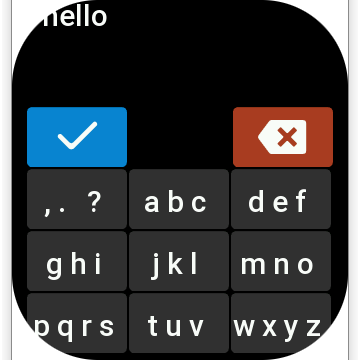
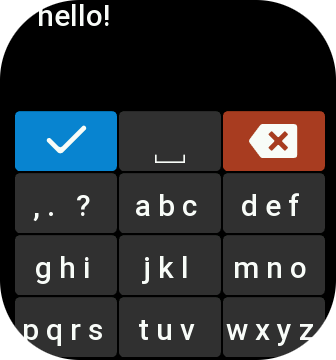
feat: add a space button and buymeacoffee

Changed region(s): [[0.0, 0.0, 1.0, 1.0], [0.4167, 0.8556, 0.5952, 0.9472], [0.119, 0.3667, 0.2381, 0.4278]]

diff --git a/page/keyboard.js b/page/keyboard.js
@@ -85,6 +85,10 @@ getALetter = function (buttonLetters, currentButton, timeToDoubleClick = multiCl
     lastClick = nowClick;
 }
 
+addSpace = function () {
+    text += ' ';
+}
+
 getAEmoji = function (emoji) {
     text += emoji;
 
@@ -171,7 +175,7 @@ createNumberKeyboard = function () {
         w: width - 60,
         h: 120,
         color: 0xffffff,
-        text_size: 36,
+        text_size: 30,
         align_h: hmUI.align.LEFT,
         align_v: hmUI.align.TOP,
         text_style: hmUI.text_style.CHAR_WRAP,
@@ -245,6 +249,30 @@ createKeyboard = function () {
         press_src: 'ic_confirm_52px.png',
         click_func: () => {
             sendMessage()
+        }
+    })
+
+
+
+    const spacebtn = hmUI.createWidget(hmUI.widget.GROUP, {
+        x: buttonWidthMargin + margin,
+        y: height - margin - 4 * buttonHeightMargin,
+        w: buttonWidth,
+        h: buttonHeight,
+    })
+
+    spacebtn.createWidget(hmUI.widget.BUTTON, {
+        x: 0,
+        y: 0,
+        w: buttonWidth,
+        h: buttonHeight,
+        text_size: 40,
+        text: "␣",
+        normal_color: 0x333333,
+        press_color: 0x888888,
+        radius: 5,
+        click_func: () => {
+            addSpace()
         }
     })
 

diff --git a/page/more.js b/page/more.js
@@ -29,6 +29,12 @@ const menuItems = [
         title: false
     },
     {
+        description: gettext('spaceButton'),
+        icon: 'ic_space_50.png',
+        page: '',
+        title: false
+    },
+    {
         description: gettext('about'),
         icon: '',
         page: '',
@@ -36,6 +42,12 @@ const menuItems = [
     },
     {
         description: gettext('createdBy'),
+        icon: 'me.png',
+        page: '',
+        title: false
+    },
+    {
+        description: gettext('buycoffee'),
         icon: 'ic_rest_50px.png',
         page: '',
         title: false

diff --git a/README.md b/README.md
@@ -16,7 +16,7 @@ To start, click on **create first note** button, you'll see a simple T9 keyboard
 <img src="screenshots/en_US/keyboard.png" width="200" height="200">
 <img src="screenshots/en_US/numberkeyboard.png" width="200" height="200">
 
-**Tip**: The space is the third character in the first key ***,. ?***
+**Tip**: The space is the third character in the first key ***,. ?*** or you can use the **␣** button.
 
 **Tip**: Slide from the right to see numbers, more characters and emojis.
 
@@ -35,6 +35,8 @@ Create a new note, clicking on the add button <img src="assets/336x384-gts-4-min
 And delete all notes, clicking on the top trash button <img src="assets/336x384-gts-4-mini/ic_del_50px.png" width="20" height="20">
 
 To delete a specific note, click on the respective trash button <img src="assets/336x384-gts-4-mini/ic_del_50px.png" width="20" height="20">, at the right of the note.
+
+Double-click a note to edit it.
 
 <br>
 
